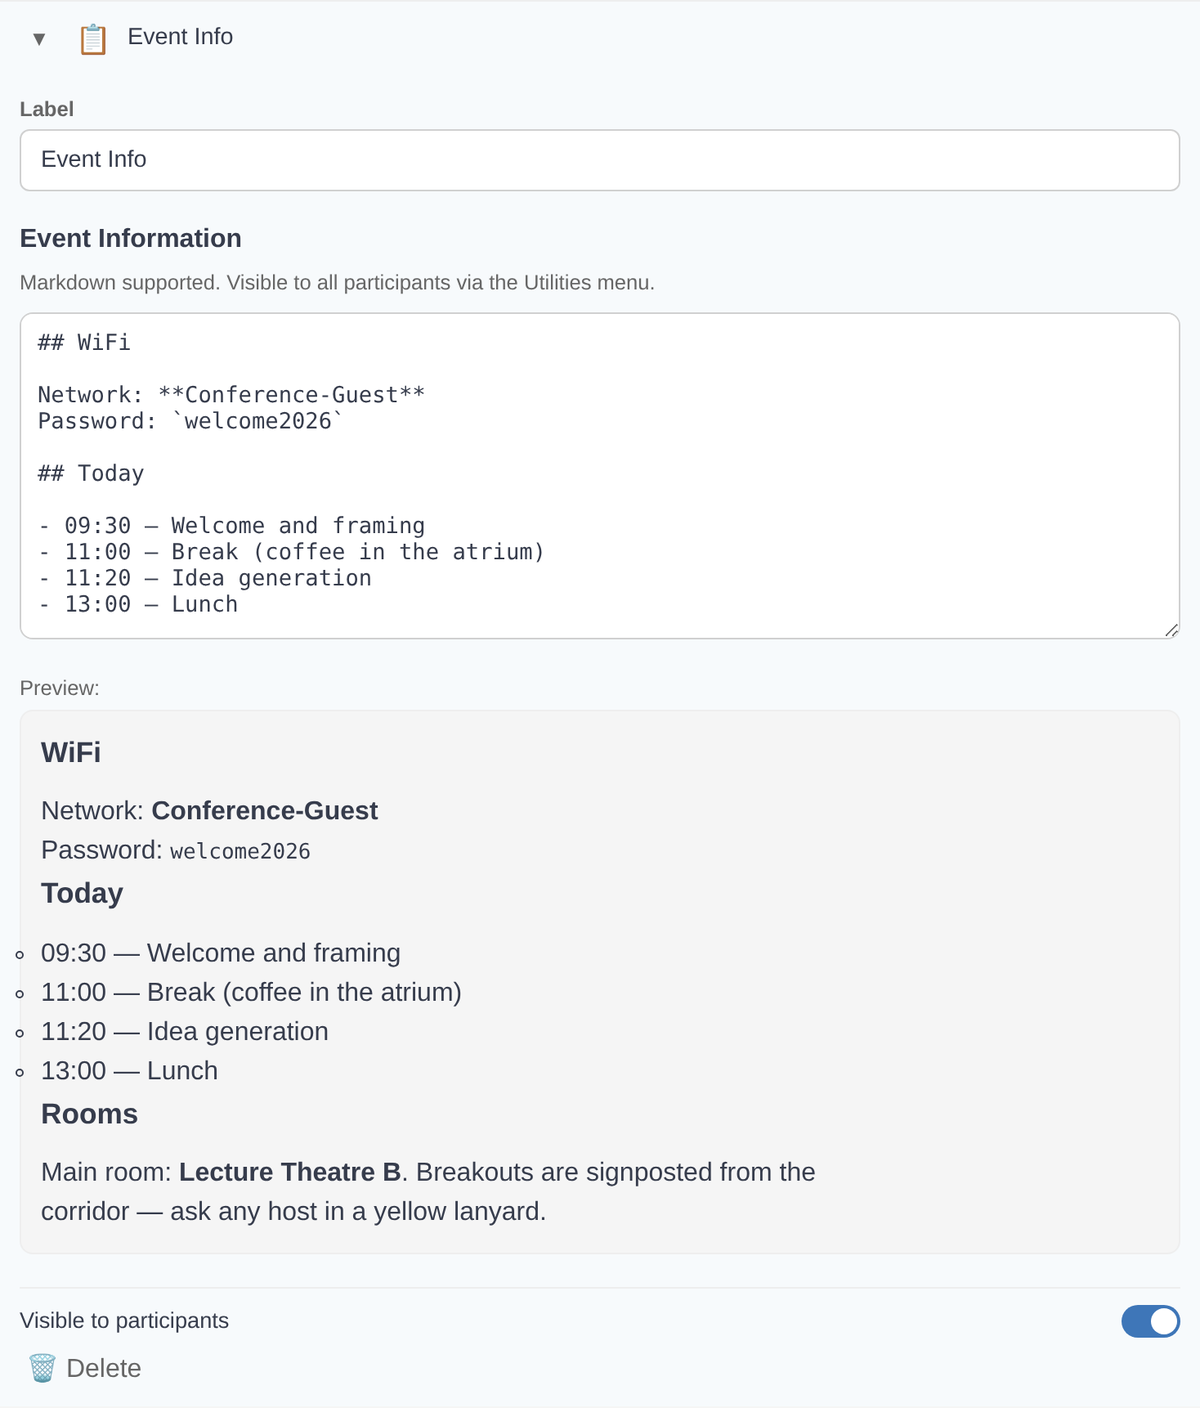
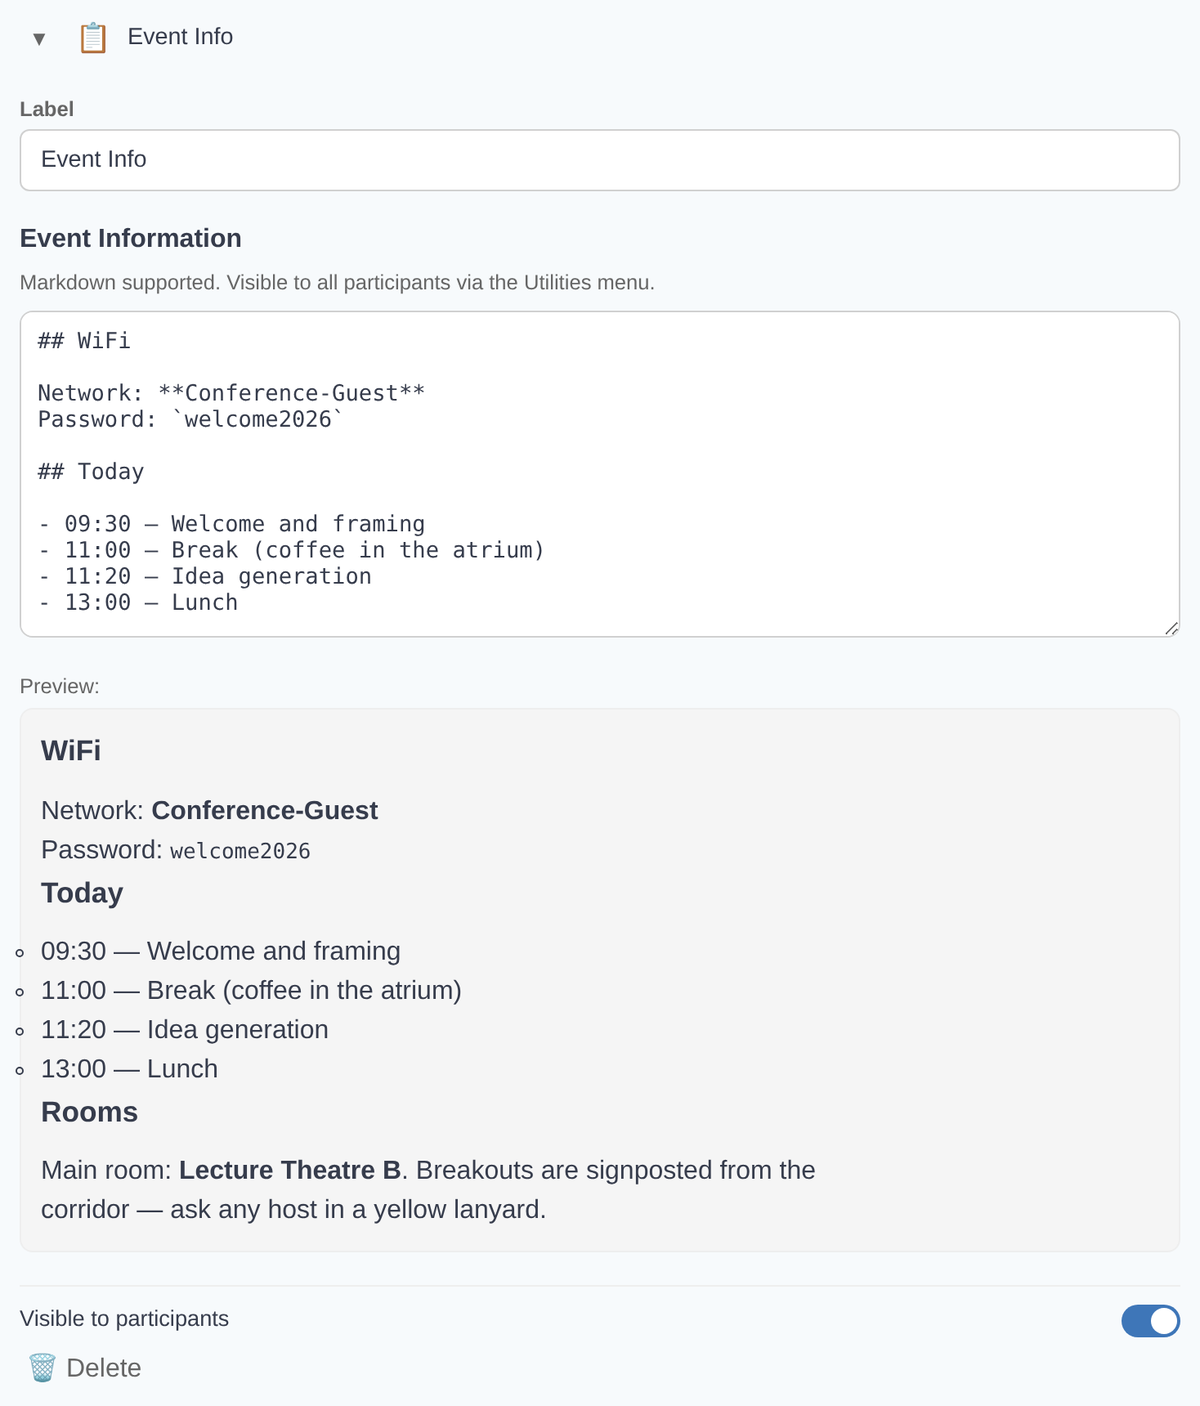
White reading column, screenshot borders, grouped rail, responsive images
Four changes from Andy's review of the first screenshot.

**White reading column.** New --bg-content token: the column that holds the
text now sits on its own background (white in light, a lifted basalt in dark),
with the rail and page furniture keeping --bg behind it. Rounded and inset
only from 760px up — edge to edge on a phone, where a rounded strip would look
clipped. check-theme gains five pairs, because every token that paints text or
a focus ring inside the column now needs checking against that background too,
not just against the paper.

**Screenshot borders** in --accent, scoped to /screenshots/ so the diagrams
keep their own treatment. Not green: green already means "focusing tool" in
the app's mode colouring, and a green edge on a screenshot of Event Info would
imply something false. --accent is the site's existing decorative accent, so
this adds no new colour.

**Grouped rail.** nav items in tools.json may now be
{ "group": "…", "items": [...] }, nesting one level. Applied as Advanced tools
(Breakout Groups, Personal Workspace), Utilities (Timer, Raise Hand) and Event
management (Event Info, the event report, CSV export). The group label is a
span, not a link — there is no page behind it — so the nesting does the
announcing rather than a heading.

**Responsive images.** When <name>.narrow.png sits beside <name>.png the
build emits a <picture> serving the narrow file below 640px. This is art
[…]

diff --git a/build.js b/build.js
@@ -27,6 +27,11 @@ const cfg = JSON.parse(fs.readFileSync(path.join(ROOT, 'tools.json'), 'utf8'));
 const site = cfg.site || {};
 const template = fs.readFileSync(path.join(ROOT, 'template.html'), 'utf8');
 
+// Where site-rooted asset paths ("/assets/…") resolve on disk, and the width
+// below which a screenshot gets its narrow variant if one exists.
+const SRC_ROOT = ROOT;
+const NARROW_BREAKPOINT = 640;
+
 marked.setOptions({ mangle: false, headerIds: false });
 
 /**
@@ -57,6 +62,35 @@ renderer.heading = function (text, level) {
   if (level === 2) pageHeadings.push({ id, text: text.replace(/<[^>]*>/g, '').trim() });
   return `<h${level} id="${id}">${text}</h${level}>`;
 };
+/* Responsive screenshots. A desktop-width screenshot is close to useless on a
+ * phone — the reader gets a wall of unreadable chrome. So when an image has a
+ * companion `<name>.narrow.png` beside it, emit a <picture> that serves the
+ * narrow capture to narrow viewports.
+ *
+ * This is art direction, not resolution switching: the two files are different
+ * captures of the same screen (phone layout vs desktop layout), not one image
+ * at two sizes — which is exactly the case <picture media> exists for, where
+ * srcset/sizes would be the wrong tool.
+ *
+ * Plain <img> when there is no variant, so nothing changes for the diagrams. */
+renderer.image = function (href, title, text) {
+  // `text` and `title` arrive from marked already HTML-escaped — running them
+  // through escAttr again turns &quot; into &amp;quot;, which a screen reader
+  // reads out literally. Only href needs escaping here.
+  const ttl = title ? ` title="${title}"` : '';
+  const img = `<img src="${escAttr(href)}" alt="${text || ''}"${ttl}>`;
+
+  const m = /^(.*)(\.[a-z0-9]+)$/i.exec(href);
+  if (!m) return img;
+  const narrowHref = `${m[1]}.narrow${m[2]}`;
+  // href is site-rooted ("/assets/…"); resolve against the assets tree on disk.
+  if (!narrowHref.startsWith('/') || !fs.existsSync(path.join(SRC_ROOT, narrowHref.slice(1)))) return img;
+
+  return `<picture>`
+    + `<source media="(max-width: ${NARROW_BREAKPOINT}px)" srcset="${escAttr(narrowHref)}">`
+    + `${img}</picture>`;
+};
+
 marked.setOptions({ renderer });
 
 // Derive a page <title> from the first markdown heading, else the file name.
@@ -185,17 +219,29 @@ function sectionNav(rel, prefix, pageTitles) {
     if (!conf) return '';
     title = conf.title;
     href = conf.href ? prefix + conf.href.replace(/^\//, '') : null;
-    entries = (conf.items || []).map((item) => {
+    const dir = sec.key === 'principles' ? 'principles' : sec.audience;
+
+    // An item is either a page slug, a "$mode" generated index, or a group:
+    // { "group": "Utilities", "items": [...] }. Groups nest one level only —
+    // deeper would out-structure the content it is navigating.
+    const entryFor = (item) => {
       if (item.startsWith('$')) {                       // a generated mode index
         const mode = item.slice(1);
         return cfg.modes?.[mode]
           ? { id: item, label: cfg.modes[mode].title, href: `${prefix}facilitator/tools-${mode}.html` }
           : null;
       }
-      const dir = sec.key === 'principles' ? 'principles' : sec.audience;
       const t = toolBySlug.get(item);
       const label = t ? t.name : shortTitle(pageTitles.get(`${dir}/${item}.md`) || item);
       return { id: item, label, href: `${prefix}${dir}/${item}.html` };
+    };
+
+    entries = (conf.items || []).map((item) => {
+      if (typeof item === 'object' && item.group) {
+        const children = (item.items || []).map(entryFor).filter(Boolean);
+        return children.length ? { group: item.group, children } : null;
+      }
+      return entryFor(item);
     }).filter(Boolean);
   }
   if (!entries.length) return '';
@@ -205,12 +251,20 @@ function sectionNav(rel, prefix, pageTitles) {
         `<li><a href="#${escAttr(h.id)}">${escAttr(h.text)}</a></li>`).join('')}</ul>`
     : '';
 
-  const items = entries.map(e => {
+  const liFor = (e) => {
     const here = e.id === sec.current;
     return `<li${here ? ' class="here"' : ''}>` +
       `<a href="${escAttr(e.href)}"${here ? ' aria-current="page"' : ''}>${escAttr(e.label)}</a>` +
       `${here ? subs : ''}</li>`;
-  }).join('');
+  };
+
+  // A group is a plain <li> holding a label and a nested <ul>. The label is not
+  // a link — there is no page behind it — so it is a <span>, and the nesting
+  // does the announcing for screen readers rather than a heading would.
+  const items = entries.map(e => e.group
+    ? `<li class="group"><span class="section-nav__group">${escAttr(e.group)}</span>`
+      + `<ul>${e.children.map(liFor).join('')}</ul></li>`
+    : liFor(e)).join('');
 
   // On a section's own landing page (/facilitator/, /principles/) the title IS
   // the current page — mark it, or nothing in the rail would be marked at all.
@@ -228,7 +282,9 @@ function render(rel, md, pageTitles = new Map()) {
   // rewrite them relative to this page's depth so the site works from any host
   // path (GitHub Pages project sites live under /<repo>/, not /).
   pageHeadings = [];   // the renderer fills this during parse; the rail reads it after
-  const html = marked.parse(md).replace(/(href|src)="\/(?!\/)/g, `$1="${prefix}`);
+  // srcset is in here too: <picture> sources are site-rooted like src/href, and
+  // a missed rewrite there fails only at narrow widths, where nobody looks.
+  const html = marked.parse(md).replace(/(href|src|srcset)="\/(?!\/)/g, `$1="${prefix}`);
   // the rail needs pageHeadings, so it must be built after the parse above
   const nav = sectionNav(rel, prefix, pageTitles);
   const out = template

diff --git a/assets/css/base.css b/assets/css/base.css
@@ -71,8 +71,25 @@ nav.crumbs a { color: var(--link); text-decoration: none; }
 nav.crumbs a:hover { text-decoration: underline; }
 
 /* ---- content ------------------------------------------------------------- */
-.page { max-width: 720px; margin: 0 auto; padding: 24px 20px 64px; }
+/* The reading column sits on its own background (--bg-content), lifted off the
+   paper. The rail and the page furniture keep --bg, so the column reads as the
+   thing you are meant to be looking at. */
+.page {
+  max-width: 720px; margin: 0 auto; padding: 24px 20px 64px;
+  background: var(--bg-content);
+}
 main :first-child { margin-top: 0; }
+
+@media (min-width: 760px) {
+  /* Round and inset the column only once there is paper visible beside it.
+     Edge to edge on a phone, where a rounded strip would just look clipped. */
+  .page {
+    border-radius: 8px;
+    margin-top: 12px;
+    padding-left: 32px;
+    padding-right: 32px;
+  }
+}
 
 /* ---- section rail ---------------------------------------------------------
  * A persistent list of the pages beside this one (its mode group, Principles,
@@ -171,6 +188,26 @@ main :first-child { margin-top: 0; }
     color: var(--text-dim);
   }
   .section-nav ul.sub a:hover { color: var(--text); }
+
+  /* ---- rail groups --------------------------------------------------------
+   * A labelled cluster of related pages (Utilities, Event management). The
+   * label is a span, not a link — there is no page behind it — so it must not
+   * look clickable: smaller and dimmer than an entry, no hover state.
+   *
+   * The nested <ul> inherits the spine, which would double it up beside the
+   * parent's, so the group's own spine is dropped and the children indent
+   * instead. */
+  .section-nav .section-nav__group {
+    display: block;
+    padding: 10px 0 3px 14px;
+    font-size: .68rem;
+    font-weight: 700;
+    letter-spacing: .05em;
+    text-transform: uppercase;
+    color: var(--text-dim);
+  }
+  .section-nav li.group > ul { border-left: 0; }
+  .section-nav li.group > ul > li > a { padding-left: 22px; }
 }
 
 @media print {
@@ -211,6 +248,23 @@ blockquote {
 hr { border: none; border-top: 1px solid var(--line); margin: 2em 0; }
 
 img { max-width: 100%; height: auto; }
+
+/* Screenshots carry a hairline so they read as a picture of the product rather
+   than as part of the page — the app's own chrome is pale and the reading
+   column is now white, so without an edge they dissolve into it.
+ *
+ * --accent (not a new colour): it is already the site's decorative accent, and
+ * green would collide with the app's own mode colouring, where green means a
+ * focusing tool. A border implying "this is a focusing tool" on a screenshot of
+ * Event Info would be worse than no border.
+ *
+ * Scoped to /screenshots/ so the diagrams in ../diagrams/ — which carry their
+ * own backgrounds and are meant to be redrawn per-org — stay untouched. */
+main img[src*="/screenshots/"] {
+  border: 1px solid var(--accent);
+  border-radius: 6px;
+  display: block;
+}
 
 table { border-collapse: collapse; margin: 1em 0; display: block; overflow-x: auto; }
 th, td { border: 1px solid var(--line); padding: .45em .8em; text-align: left; }

diff --git a/assets/css/theme.css b/assets/css/theme.css
@@ -21,7 +21,8 @@
 
 :root {
   /* ---- Surfaces ------------------------------------------------------- */
-  --bg:      #EBEEEC;  /* page background ("paper")                        */
+  --bg:      #EBEEEC;  /* page background ("paper") — behind the rail too  */
+  --bg-content: #FFFFFF; /* the reading column itself, lifted off the paper */
   --surface: #E2E7E4;  /* raised panels: code blocks, callouts, footer     */
 
   /* ---- Text ----------------------------------------------------------- */
@@ -43,6 +44,9 @@
 @media (prefers-color-scheme: dark) {
   :root {
     --bg:       #14191D; /* deep basalt                                    */
+    --bg-content: #1A2126; /* reading column — lifted, the dark-mode
+                              equivalent of white-on-paper. Going lighter
+                              than this starts to glare in a dark room.   */
     --surface:  #1D242A;
     --text:     #DDE4E3; /* 13.7:1 on --bg                                 */
     --text-dim: #9BAAAC; /*  7.4:1 on --bg                                 */

diff --git a/check-theme.js b/check-theme.js
@@ -40,6 +40,14 @@ const PAIRS = [
   ['--focus',    '--bg',      3.0, 'keyboard focus ring on page background'],
   ['--focus',    '--surface', 3.0, 'keyboard focus ring on raised panels'],
   ['--bg',       '--text',    4.5, 'skip-link label (inverted colours)'],
+  // The reading column has its own background, so every token that paints text
+  // or a focus ring inside it must be checked against that too — not only
+  // against the paper behind it.
+  ['--text',     '--bg-content', 4.5, 'body text in the reading column'],
+  ['--text-dim', '--bg-content', 4.5, 'secondary text in the reading column'],
+  ['--link',     '--bg-content', 4.5, 'links in the reading column'],
+  ['--focus',    '--bg-content', 3.0, 'keyboard focus ring in the reading column'],
+  ['--accent',   '--bg-content', 3.0, 'screenshot border against the reading column'],
 ];
 
 // ---- parse the two token blocks -------------------------------------------
